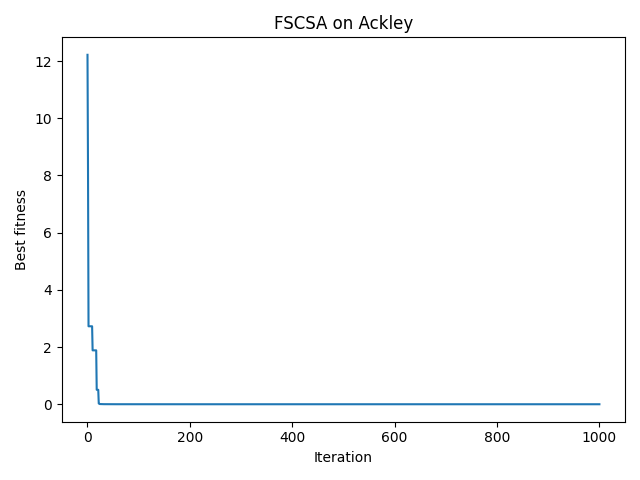
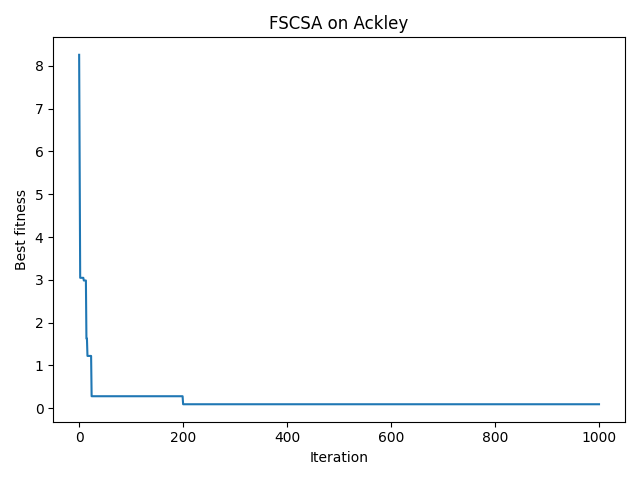
added SP and QMC (the manual file is optional if scipy doesnt work)

diff --git a/codes/fscsa_sp_qmc_manual.py b/codes/fscsa_sp_qmc_manual.py
@@ -1,0 +1,230 @@
+#-----------------
+# Forgetting Based Clonal Selection Algorithm with Sobol Initialization
+#-----------------------------
+import numpy as np
+import random
+from dataclasses import dataclass
+from typing import Callable, Tuple, List
+
+
+
+# --------------------------
+# Minimal Sobol-like sampler
+# --------------------------
+class SimpleSobol:   # <-- NEW: for Sobol sequences (Quasi Monte Carlo)
+    """Lightweight Sobol-like low-discrepancy sequence generator (no SciPy)."""
+    def __init__(self, d, seed=None):
+        self.d = d
+        self.count = 0
+        if seed is not None:
+            np.random.seed(seed)
+
+    def random(self, n=1):
+        """Generate n quasi-random points in [0,1]^d using Van der Corput + Halton style."""
+        def van_der_corput(n_sample, base=2):
+            vdc, denom = 0, 1
+            while n_sample:
+                denom *= base
+                n_sample, remainder = divmod(n_sample, base)
+                vdc += remainder / denom
+            return vdc
+
+        # Use first `d` prime bases
+        primes = [2, 3, 5, 7, 11, 13, 17, 19, 23, 29][:self.d]
+        samples = []
+        for j in range(self.count, self.count + n):
+            point = [van_der_corput(j + 1, base=p) for p in primes]
+            samples.append(point)
+        self.count += n
+        return np.array(samples)
+
+    def scale(self, pts, lb, ub):
+        """Scale samples from [0,1] to [lb,ub]."""
+        return lb + (ub - lb) * pts
+
+# --------------------------
+# Antibody representation
+# --------------------------
+@dataclass
+class Antibody:
+    x: np.ndarray        # position (candidate solution)
+    fitness: float       # objective value
+    affinity: float      # affinity = inverse of fitness
+    T: int = 0           # survival time (how long antibody has existed)
+    S: int = 0           # memory intensity (how many times selected for cloning)
+
+
+# --------------------------
+# FSCSA main class
+# --------------------------
+class FSCSASPQMC:
+    """Forgetful Clonal Selection Algorithm (Sobol-based version).
+    """
+
+    def __init__(self, func: Callable[[np.ndarray], Tuple[float,float,float]],
+                 dim: int, N: int=50, n_select: int=10, n_clones: int=5,
+                 m: float=2.0, c: float=3.0, max_iters: int=1000, seed: int=None):
+        self.func = func
+        self.dim = dim
+        self.N = N
+        self.n_select = n_select
+        self.n_clones = n_clones
+        self.m = m
+        self.c = c
+        self.max_iters = max_iters
+
+        if seed is not None:
+            np.random.seed(seed)
+            random.seed(seed)
+
+        f0, lb, ub = self.func(np.zeros(dim))
+        self.lb = lb
+        self.ub = ub
+
+        self.history = []
+
+        # Sobol sampler (scrambled for variety)
+        # self.sampler = qmc.Sobol(d=self.dim, scramble=True, seed=seed)
+        self.sampler = SimpleSobol(d=self.dim, seed=seed)
+        self.sobol_used = 0  # keep track of samples consumed
+
+    # --------------------------
+    # Fitness evaluation
+    # --------------------------
+    def _fitness(self, x: np.ndarray) -> float:
+        y, _, _ = self.func(x)
+        return float(y)
+
+    # --------------------------
+    # Affinity measure
+    # --------------------------
+    def _affinity(self, fitness: float) -> float:
+        return 1.0 / (1.0 + max(fitness, 0.0))
+
+    # --------------------------
+    # Get next Sobol sample
+    # --------------------------
+    def _sobol_sample(self, n: int = 1) -> np.ndarray:
+        pts = self.sampler.random(n)
+        self.sobol_used += n
+        return self.sampler.scale(pts, self.lb, self.ub)
+
+
+    # --------------------------
+    # Boundary handling
+    # --------------------------
+    def _clip(self, x):
+        return np.clip(x, self.lb, self.ub)
+
+    # --------------------------
+    # Initialize antibody population (Sobol instead of uniform random)
+    # --------------------------
+    def _init_population(self) -> List[Antibody]:
+        pop = []
+        sobol_points = self._sobol_sample(self.N)
+        for x in sobol_points:
+            fit = self._fitness(x)
+            aff = self._affinity(fit)
+            pop.append(Antibody(x=x, fitness=fit, affinity=aff, T=0, S=0))
+        return pop
+
+    # --------------------------
+    # Cloning process
+    # --------------------------
+    def _clone(self, selected: List[Antibody]) -> List[Antibody]:
+        if not selected:
+            return []
+        max_aff = max(ab.affinity for ab in selected)
+        clones = []
+        for ab in selected:
+            ab.S += 1
+            ratio = ab.affinity / (max_aff + 1e-12)
+            k = max(1, int(round(self.n_clones * ratio)))
+            for _ in range(k):
+                clones.append(Antibody(x=ab.x.copy(), fitness=ab.fitness,
+                                       affinity=ab.affinity, T=ab.T, S=ab.S))
+        return clones
+
+    # --------------------------
+    # Mutation
+    # --------------------------
+    def _mutate(self, clones: List[Antibody]) -> None:
+        scale_base = (self.ub - self.lb) * 0.1
+        for ab in clones:
+            step = scale_base * ((1.0 - ab.affinity) ** self.m)
+            if step < 1e-12:
+                step = 1e-12
+            noise = np.random.normal(loc=0.0, scale=step, size=self.dim)
+            x_new = self._clip(ab.x + noise)
+            fit = self._fitness(x_new)
+            aff = self._affinity(fit)
+            ab.x, ab.fitness, ab.affinity = x_new, fit, aff
+
+    # --------------------------
+    # Replacement
+    # --------------------------
+    def _replace(self, pop: List[Antibody], offspring: List[Antibody]) -> List[Antibody]:
+        for ab in pop:
+            ab.T += 1
+        union = pop + offspring
+        union.sort(key=lambda a: a.fitness)
+        return [Antibody(x=a.x, fitness=a.fitness, affinity=a.affinity, T=a.T, S=a.S)
+                for a in union[:self.N]]
+
+    # --------------------------
+    # Forgetting (Sobol reinit instead of random)
+    # --------------------------
+    def _forgetting(self, pop: List[Antibody]) -> None:
+        for i, ab in enumerate(pop):
+            if ab.S == 0:
+                activity = float('inf') if ab.T > 0 else 0.0
+            else:
+                activity = ab.T / ab.S
+            if activity > self.c:
+                x = self._sobol_sample(1)[0]
+                fit = self._fitness(x)
+                aff = self._affinity(fit)
+                pop[i] = Antibody(x=x, fitness=fit, affinity=aff, T=0, S=0)
+
+    # --------------------------
+    # Synaptic Pruning
+    # --------------------------
+    def _prune_low_novelty(self, pop: List[Antibody], scale: float = 0.01) -> None:
+        threshold = scale * np.linalg.norm(self.ub - self.lb)
+        positions = np.array([ab.x for ab in pop])
+        for i, ab in enumerate(pop):
+            diffs = positions - ab.x
+            dists = np.linalg.norm(diffs, axis=1)
+            avg_dist = (np.sum(dists) - dists[i]) / (len(pop) - 1)
+            if avg_dist < threshold:
+                x_new = self._sobol_sample(1)[0]
+                fit = self._fitness(x_new)
+                aff = self._affinity(fit)
+                pop[i] = Antibody(x=x_new, fitness=fit, affinity=aff, T=0, S=0)
+
+    # --------------------------
+    # Main optimization loop
+    # --------------------------
+    def optimize(self):
+        pop = self._init_population()
+        best = min(pop, key=lambda a: a.fitness)
+        self.history = [best.fitness]
+
+        for it in range(1, self.max_iters + 1):
+            pop.sort(key=lambda a: a.fitness)
+            selected = pop[:self.n_select]
+
+            clones = self._clone(selected)
+            self._mutate(clones)
+            pop = self._replace(pop, clones)
+            self._forgetting(pop)
+            self._prune_low_novelty(pop)
+
+            current_best = min(pop, key=lambda a: a.fitness)
+            if current_best.fitness < best.fitness:
+                best = Antibody(x=current_best.x.copy(), fitness=current_best.fitness,
+                                affinity=current_best.affinity, T=current_best.T, S=current_best.S)
+
+            self.history.append(best.fitness)
+
+        return best.x, best.fitness, self.history

diff --git a/codes/run_fscsa.py b/codes/run_fscsa.py
@@ -1,6 +1,7 @@
 
 import numpy as np
 from fscsa import FSCSA
+from fscsa_sp_qmc_manual import FSCSASPQMC
 import benchmark as bm
 import matplotlib.pyplot as plt
 
@@ -12,7 +13,7 @@ os.makedirs("fig", exist_ok=True)
 func = bm.get_function_by_name('Ackley')
 dim = 2
 
-algo = FSCSA(func=func, dim=dim, N=50, n_select=10, n_clones=5, m=2.0, c=3.0, max_iters=1000, seed=42)
+algo = FSCSASPQMC(func=func, dim=dim, N=50, n_select=10, n_clones=5, m=2.0, c=3.0, max_iters=1000, seed=42)
 best_x, best_f, history = algo.optimize()
 
 print('Best fitness:', best_f)
